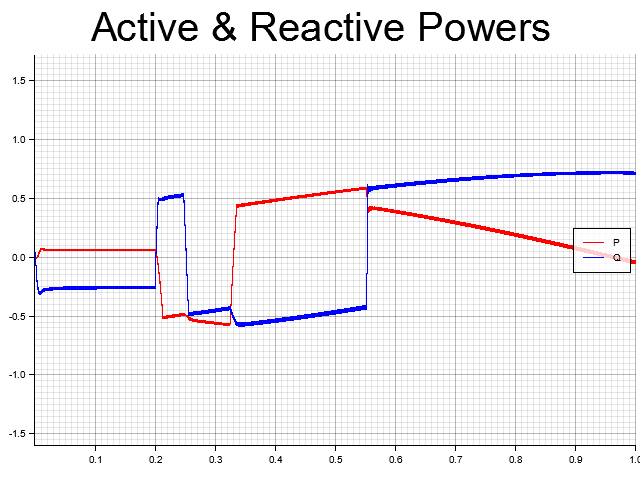
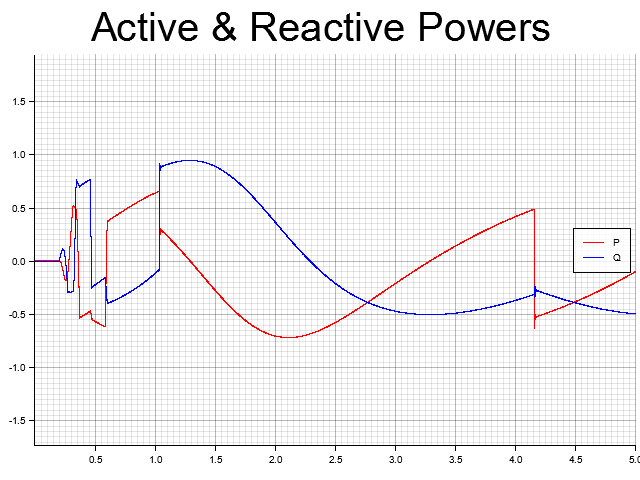
Tested DLVC with high fs and long sim time

Changed region(s): [[0.0, 0.0938, 1.0, 0.9688]]

diff --git a/src/bin/dvoc_lcl_dlvc_sim.rs b/src/bin/dvoc_lcl_dlvc_sim.rs
@@ -21,7 +21,8 @@ fn main() -> Result<(), Box<dyn std::error::Error>> {
     let f_nom: f32 = 60.;
     let w_nom: f32 = f_nom * 2.*PI;
     let s_rated: f32 = 1000.;
-    let dt: f32 = 1.0e-4_f32;
+    let fs: f32 = 100e3_f32; // Hz
+    let dt: f32 = 1. / fs;  // s
     let xi: f32 = 15.;
     let c: f32 = 0.2679;
     let gamma: f32 = 1.; 
@@ -38,8 +39,8 @@ fn main() -> Result<(), Box<dyn std::error::Error>> {
     //let rv = 0;  // virtual impedance
     //let zf = libm::sqrtf(rf*rf+(lf*w_nom)*(lf*w_nom));  // filter nominal inductance
 
-    let w_cur = 2.*PI*2750.;  // TODO: Determine why these frequencies needed to be cranked up this high for tracking. Guessing that per-unitization is the underlying factor
-    let w_vol = 2.*PI*800.;   // Originally was using 2.*PI*5000 and 2.*PI*800, but found 1e6 and 3e5 work well (Seperation is a bit low though <10x). Possibly multiply by w_nom, so remove 1/w_nom below?
+    let w_cur = 2.*PI*2000.;  // TODO: Determine why these frequencies needed to be cranked up this high for tracking. Guessing that per-unitization is the underlying factor
+    let w_vol = 2.*PI*500.;   // Originally was using 2.*PI*5000 and 2.*PI*800, but found 1e6 and 3e5 work well (Seperation is a bit low though <10x). Possibly multiply by w_nom, so remove 1/w_nom below?
     
     let kp_v = 1.*w_vol*cf * (z_base);
     let ki_v = 1.*kp_v*w_vol*w_vol/w_cur;
@@ -47,9 +48,9 @@ fn main() -> Result<(), Box<dyn std::error::Error>> {
     let ki_i = 1.*rf*w_cur * (1. / z_base);  // TODO: Is this per-unitization of scalars here correct? Most concerned about w_nom scaling
 
     let mut inv = build_dvoc_controller(v_nom, w_nom, xi, c);
-    let theta0 = 0.003;
+    let theta0 = 0.0;  // 0.003 for initializing off from grid
     inv.x[(1)] = theta0;  // Initialize inverter angle to be off from the grid to test presync
-    inv.x[(0)] = 1.1;  // Initialize inverter voltage to be off from v_nom to test presync
+    inv.x[(0)] = 1.0;  // Initialize inverter voltage to be off from v_nom to test presync
     let inv_ab = AlphaBeta::from_polar(inv.x[(0)], inv.x[(1)] * w_nom);  // Grab alpha-beta inv voltage for initializing the LCL filter
     let mut gfm = build_gfm(&mut inv, gamma);  // Place the dVOC controller within a GFM interface object
     let mut voltage_loop = build_double_loop_voltage_controller(v_nom, kp_v, ki_v, kp_i, ki_i, lf / z_base, cf * z_base, i_base, -i_base);
@@ -63,7 +64,7 @@ fn main() -> Result<(), Box<dyn std::error::Error>> {
     RUNNING DYNAMICAL SIMULATION
     */
     // Simulation settings
-    let t_end = 1.0;  // Simulate time in seconds
+    let t_end = 5.0;  // Simulate time in seconds
     let t_step = t_end; //t_end / 2.; // Active power reference step time
     let t_switch = 0.2;  // Grid-side switch time
     let n_steps: u32 = (t_end / dt).ceil() as u32;
@@ -123,7 +124,7 @@ fn main() -> Result<(), Box<dyn std::error::Error>> {
         ia_values[step as usize] = (t, line.x[(0)]);
         ib_values[step as usize] = (t, line.x[(1)]);
         delta = vc_theta / w_nom - bus.x[(1)];
-        if delta > (1. / f_nom - 1.0e-4) {
+        if delta > (1. / f_nom - 2.0e-4) {
             delta = -(1. / f_nom) + delta;
         } else if delta < -(1. / f_nom - 1.0e-4) {
             delta = (1. / f_nom) + delta;
@@ -144,9 +145,9 @@ fn main() -> Result<(), Box<dyn std::error::Error>> {
 
         // Step the system
         for n in 0..cont_n_steps {
-            // Calculate power at the capacitor node 
-            let i = AlphaBeta::from_ab_(line.x[(0)], line.x[(1)]);  // TODO: Change this to the grid-side power once virtual impedance is implemented
-            (p, q) = calc_ab_power(&v_cap_alpha_beta, &i);
+            // Calculate power out of the capacitor node 
+            let i = AlphaBeta::from_ab_(line.x[(4)], line.x[(5)]);
+            (p, q) = calc_ab_power(&v_cap_alpha_beta, &i);  // TODO: Change this to the grid-side power once virtual impedance is implemented
             p_values[(cont_n_steps*step + n) as usize] = (t + (n as f32)*cont_dt, p);
             q_values[(cont_n_steps*step + n) as usize] = (t + (n as f32)*cont_dt, q);
             

diff --git a/src/bin/dvoc_lcl_sim.rs b/src/bin/dvoc_lcl_sim.rs
@@ -36,8 +36,8 @@ fn main() -> Result<(), Box<dyn std::error::Error>> {
     let z_base = 3. * v_nom * v_nom / s_rated;
 
     let mut inv = build_dvoc_controller(v_nom, w_nom, xi, c);
-    inv.x[(1)] = 0.003;  // Initialize inverter angle to be off from the grid to test presync
-    inv.x[(0)] = 1.1;  // Initialize inverter voltage to be off from v_nom to test presync
+    inv.x[(1)] = 0.;//0.003;  // Initialize inverter angle to be off from the grid to test presync
+    inv.x[(0)] = 1.;//1.1;  // Initialize inverter voltage to be off from v_nom to test presync
     let inv_ab = AlphaBeta::from_polar(inv.x[(0)], inv.x[(1)]);  // Grab alpha-beta inv voltage for initializing the LCL filter
     let mut gfm = build_gfm(&mut inv, gamma);  // Place the dVOC controller within a GFM interface object
 
